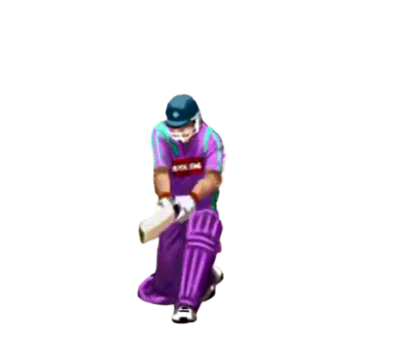
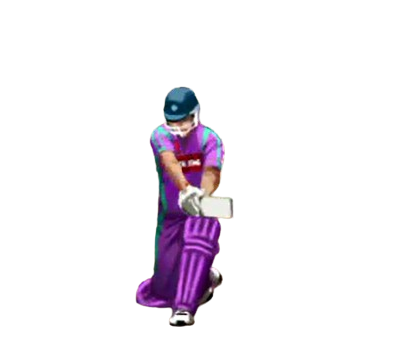
batting timing updated

Changed region(s): [[0.33, 0.2286, 0.6, 0.9429]]

diff --git a/game.py b/game.py
@@ -55,7 +55,7 @@ class GAME():
 
         if BATSMAN.key_pressed:
             GAME.check_runs_scored()
-            GAME.all_sprites.sprites()[0].shot_select()
+            GAME.all_sprites.sprites()[0].play_shot()
             BALL.shot = BATSMAN.shot
             BALL.delivery_played = True
             BATSMAN.key_pressed = False
@@ -64,29 +64,31 @@ class GAME():
 
     def check_runs_scored():
         GAME.dr = BATSMAN.t_player_input-BOWLER.t_ball_released
-
+        print(GAME.dr)
         if BATSMAN.direction == BALL.direction:
 
-            if 40 <= GAME.dr <= 100:
+            if 310 <= GAME.dr <= 330:
                 GAME.runs_scored = 6
                 BATSMAN.shot = "loft"
             
-            elif 20 <= GAME.dr <= 120:
+            elif 310 <= GAME.dr <= 335:
                 GAME.runs_scored = "Catch-Out"
                 BATSMAN.shot = "loft"
 
-            elif 0 <= GAME.dr <= 140:
+            elif 310 <= GAME.dr <= 360:
                 GAME.runs_scored = 4
                 BATSMAN.shot = "stroke"
 
-            elif -200 <= GAME.dr <= 200:
+            elif 290 <= GAME.dr <= 395:
                 BATSMAN.shot = "stroke"
                 GAME.runs_scored = random.choice([1,1,1,2,2,3])
             
+            
             else: GAME.check_wicket()
 
-        else:
-            GAME.check_wicket() 
+        else: GAME.check_wicket() 
+
+        BALL.runs_scored = GAME.runs_scored
 
     def check_wicket():
 
@@ -98,7 +100,9 @@ class GAME():
                 GAME.runs_scored = 0
                 BALL.delivery_played = True
         
-        else: GAME.runs_scored = "Bowled"
+        else: 
+            GAME.runs_scored = "Bowled"
+            BATSMAN.shot = "stroke"
             
         
         

diff --git a/sprites/bowler.py b/sprites/bowler.py
@@ -83,6 +83,7 @@ class BALL(pygame.sprite.Sprite):
     delivery_played = False
     shot="loft"
     direction = "straight"
+    runs_scored = 0
 
     def __init__(self):
         super().__init__()
@@ -91,7 +92,7 @@ class BALL(pygame.sprite.Sprite):
         self.rect = self.image.get_rect(midbottom=ball_release_pt)
         BALL.rebound = False
         
-        self.points = [{"dx":(4.5,-0.5),"dy":(2,3),"length":210,"shot_dir":"straight"}]
+        self.points = [{"dx":(3.5,-0.5),"dy":(1,3),"length":222,"shot_dir":"straight"}]
         points = [
             {"dx":(4.5,-0.5),"dy":(2,3),"length":210,"shot_dir":"straight"},
             {"dx":(6,1),"dy":(1,6),"length":230,"shot_dir":"right"},
@@ -113,7 +114,13 @@ class BALL(pygame.sprite.Sprite):
 
         if BALL.delivery_played:
 
-            if self.rect.y <= hit_pos:
+            if BALL.runs_scored == "Bowled":
+                if self.rect.y <= 145:
+                    self.d = random.choice(self.points)
+                    BALL.delivery_played = False
+                    self.kill()
+
+            elif self.rect.y <= hit_pos:
                 self.d = random.choice(self.points)
                 BALL.delivery_played = False
                 self.kill()

diff --git a/settings.py b/settings.py
@@ -19,7 +19,7 @@ ball_release_pt = (325,250)
 # shots
 shots = {
     "straight-loft":{"name":"lofted-straight","hit_pos":160},
-    "straight-stroke":{"name":"straight-drive","hit_pos":140},
+    "straight-stroke":{"name":"straight-drive","hit_pos":155},
     "left-loft":{"name":"reverse_sweep","hit_pos":140},
     "left-stroke":{"name":"cover-drive","hit_pos":145},
     "right-loft":{"name":"pull-shot","hit_pos":90},

diff --git a/sprites/batsman.py b/sprites/batsman.py
@@ -63,9 +63,10 @@ class BATSMAN(pygame.sprite.Sprite):
     
     """
     """
-    def shot_select(self):
+    def play_shot(self):
         self.update_frames(BATSMAN.direction + "-" + BATSMAN.shot)
         self.animation_state = "shot" 
+        
             
     """
         get frames according to the animation playing
